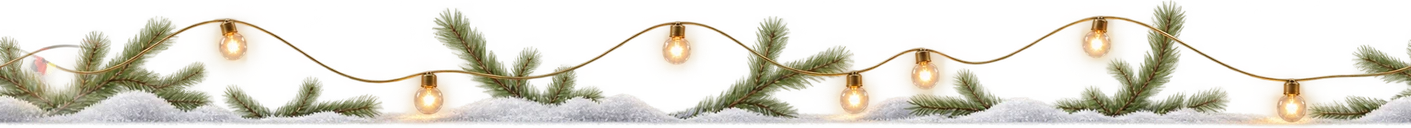
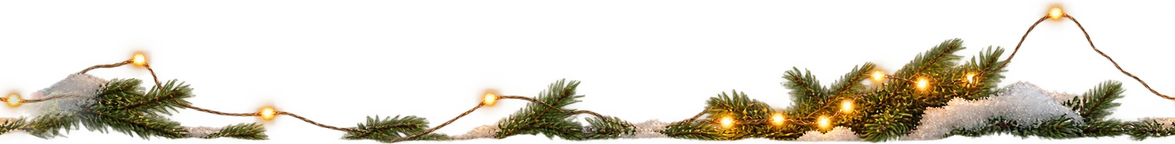
Balance Christmas chat ornaments and light spacing

diff --git a/src/styles/christmas-theme.css b/src/styles/christmas-theme.css
@@ -57,7 +57,8 @@ html[data-site-theme="christmas-2026"] :is(.topbar, .tab-sticky-header) {
 
 html[data-site-theme="christmas-2026"] :is(.topbar.conversation-topbar, .desktop-conversation-header) {
   --christmas-chat-ink: #fff5dc;
-  --christmas-chat-corner-width: clamp(112px, 29vw, 202px);
+  --christmas-chat-corner-width: clamp(108px, 34vw, 204px);
+  --christmas-chat-corner-inset: 114px;
   color: var(--christmas-chat-ink);
   border-bottom-color: #806741;
   background-color: #112d20;
@@ -66,13 +67,17 @@ html[data-site-theme="christmas-2026"] :is(.topbar.conversation-topbar, .desktop
     url("/themes/christmas-2026/conversation-lights.webp"),
     linear-gradient(90deg, rgb(8 28 19 / 32%), transparent 75%),
     url("/themes/christmas-2026/conversation-velvet.webp");
-  background-position: right 58px top, left bottom, center, center;
-  background-size: var(--christmas-chat-corner-width) auto, auto 19px, 100% 100%, 300px auto;
+  background-position: right var(--christmas-chat-corner-inset) top, left bottom, center, center;
+  background-size: var(--christmas-chat-corner-width) auto, auto 20px, 100% 100%, 300px auto;
   background-repeat: no-repeat, repeat-x, no-repeat, repeat;
 }
 
+html[data-site-theme="christmas-2026"] .topbar.conversation-topbar {
+  --christmas-chat-corner-inset: 70px;
+}
+
 html[data-site-theme="christmas-2026"] :is(.topbar.conversation-topbar, .desktop-conversation-header):has(.chat-conversation-topbar) .chat-topbar-meta {
-  margin-inline-end: clamp(44px, 13vw, 104px);
+  margin-inline-end: clamp(48px, 17vw, 116px);
 }
 
 html[data-site-theme="christmas-2026"] :is(.topbar.conversation-topbar, .desktop-conversation-header)
